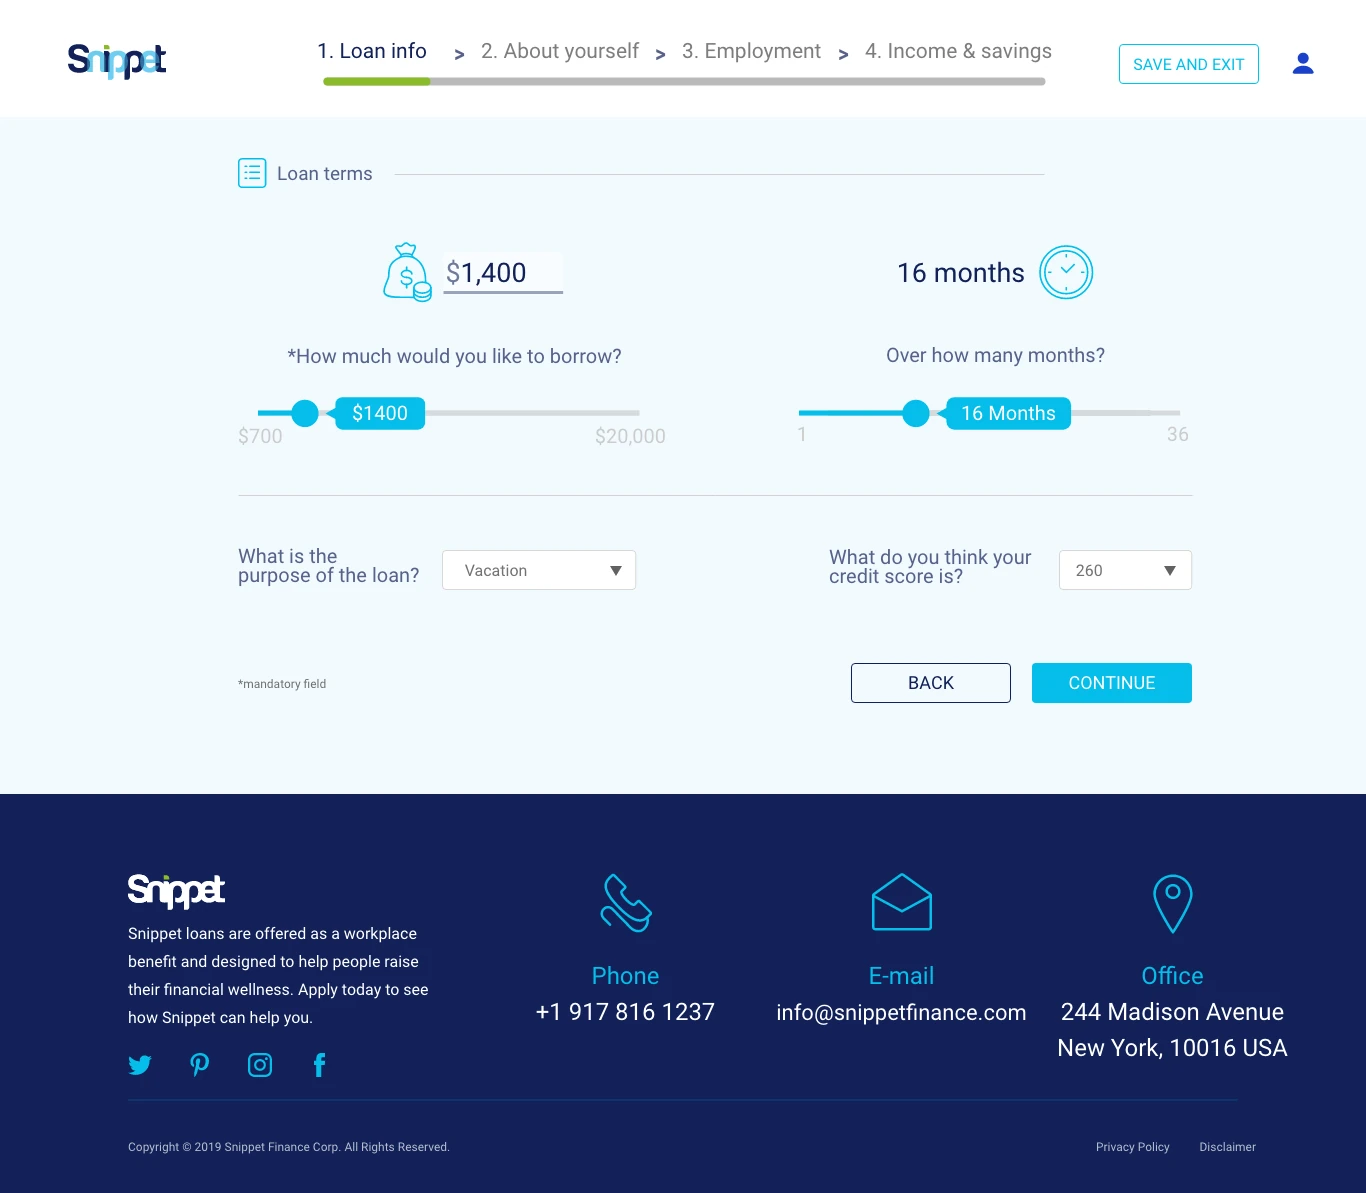
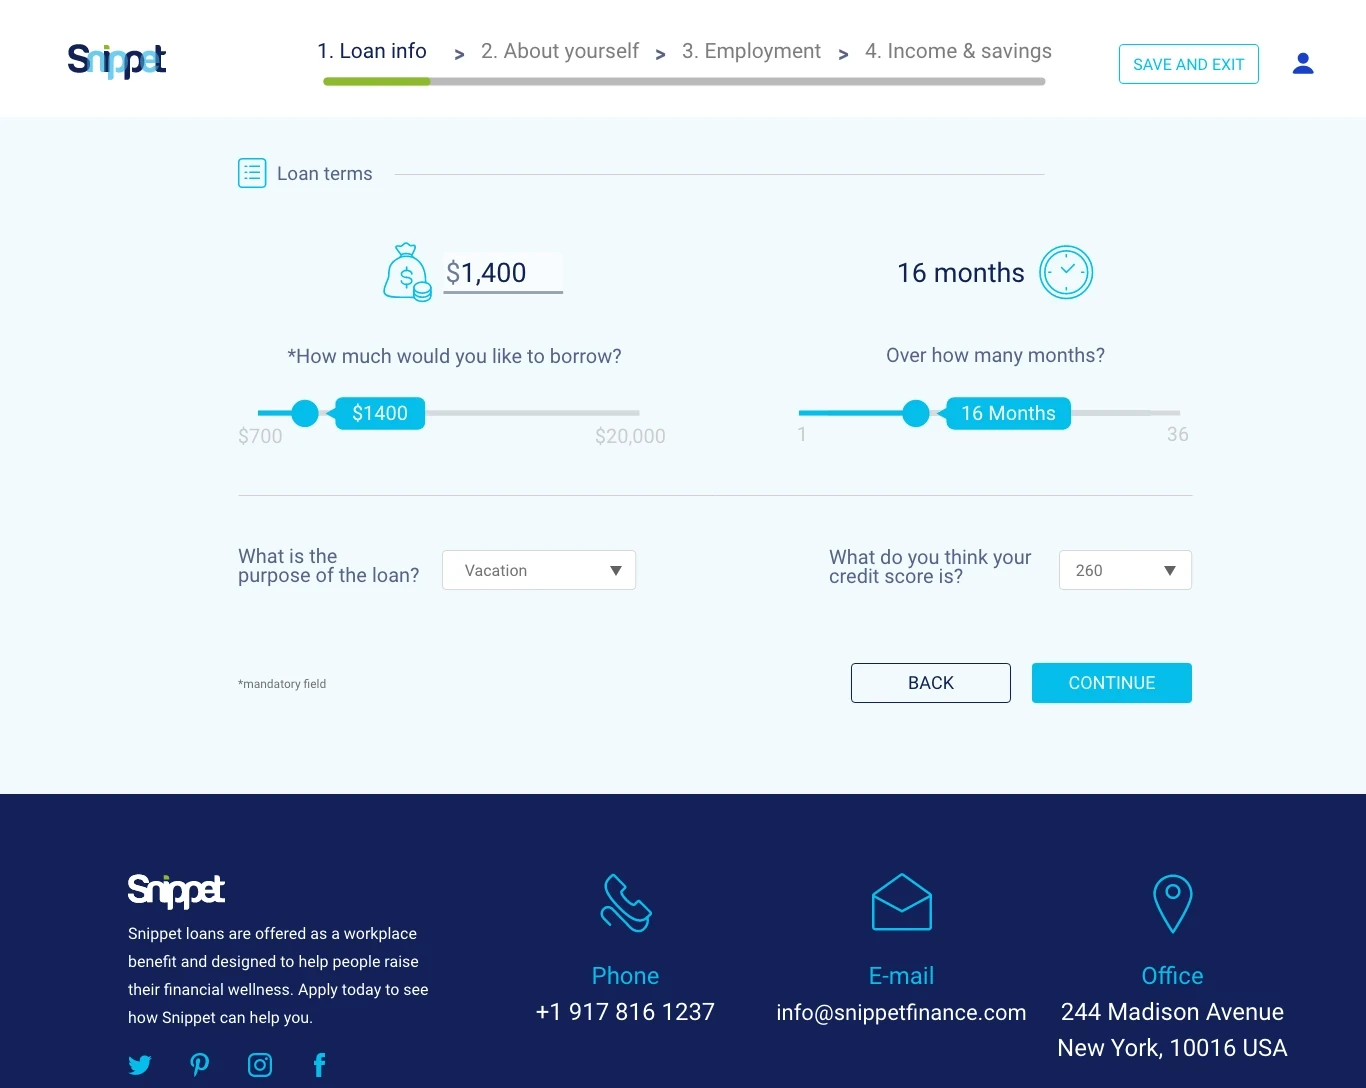
Snippet: drop the year, crop the 2019 footer from the desktop screen

diff --git a/snippet/index.html b/snippet/index.html
@@ -54,7 +54,7 @@ p { margin: 0; }
 h1 { font-size: clamp(3rem, 7.6vw, 6.4rem); line-height: .9; letter-spacing: -0.04em; }
 h1 em { font-style: normal; color: var(--navy); background: linear-gradient(transparent 62%, var(--sky) 62%, var(--sky) 92%, transparent 92%); }
 .lede { font-size: clamp(1.05rem, 1.6vw, 1.25rem); line-height: 1.65; color: var(--soft); max-width: 32em; }
-.meta { display: grid; grid-template-columns: repeat(4, minmax(0, 1fr)); gap: 18px; margin: 8px 0 0; padding-top: 22px; border-top: 1px solid var(--line); }
+.meta { display: grid; grid-template-columns: repeat(3, minmax(0, 1fr)); gap: 18px; margin: 8px 0 0; padding-top: 22px; border-top: 1px solid var(--line); }
 .meta div { display: flex; flex-direction: column; gap: 6px; }
 .meta dt { font: 500 .68rem/1 var(--f-mono); letter-spacing: .14em; text-transform: uppercase; color: var(--soft); }
 .meta dd { margin: 0; font-weight: 600; font-size: .95rem; line-height: 1.35; color: var(--ink); }
@@ -204,7 +204,6 @@ html.mk-lock, html.mk-lock body { overflow: hidden; }
           <div><dt>Client</dt><dd>Snippet Finance</dd></div>
           <div><dt>Role</dt><dd>Senior Brand &amp; Product Designer</dd></div>
           <div><dt>Scope</dt><dd>Website, loan application platform</dd></div>
-          <div><dt>Year</dt><dd>2023</dd></div>
         </dl>
       </div>
       <div class="logo-card"><img src="assets/logo.webp" alt="The Snippet logo: a bold navy wordmark whose letters overlap in sky blue, with a small green leaf on the i." width="1320" height="760"></div>
@@ -219,7 +218,7 @@ html.mk-lock, html.mk-lock body { overflow: hidden; }
       </div>
       <div class="stack rv">
         <p class="big">Design the loan application platform and the front-end website for Snippet Finance. Snippet helps employees access financing on fairer terms.</p>
-        <p class="soft">By deducting a small amount (a “snippet”) from salary each month towards loan repayment, Snippet provides an affordable way to consolidate debt or top up finances when needed. This is some of the work created throughout 2023.</p>
+        <p class="soft">By deducting a small amount (a “snippet”) from salary each month towards loan repayment, Snippet provides an affordable way to consolidate debt or top up finances when needed. Here is some of the work.</p>
         <div class="chips" aria-label="Scope"><span>Corporate website</span><span>Loan application platform</span><span>Desktop &amp; mobile</span><span>English &amp; Japanese</span></div>
       </div>
     </div>
@@ -246,7 +245,7 @@ html.mk-lock, html.mk-lock body { overflow: hidden; }
       <div class="duo rv">
         <figure class="browser">
           <div class="bar"><i></i><i></i><i></i></div>
-          <img src="assets/desktop-terms.webp" alt="Snippet loan application on desktop, step one, Loan terms: a borrowing amount slider set to 1,400 dollars, a term slider set to 16 months, a loan purpose dropdown, a credit score dropdown and Back and Continue buttons." width="1366" height="1193" loading="lazy" data-zoom>
+          <img src="assets/desktop-terms.webp" alt="Snippet loan application on desktop, step one, Loan terms: a borrowing amount slider set to 1,400 dollars, a term slider set to 16 months, a loan purpose dropdown, a credit score dropdown and Back and Continue buttons." width="1366" height="1088" loading="lazy" data-zoom>
         </figure>
         <figure class="phone">
           <img src="assets/mobile-terms.webp" alt="The same Loan terms step on mobile, with a four-step progress bar at the top and the same sliders and dropdowns stacked in one column." width="360" height="1109" loading="lazy" data-zoom>
